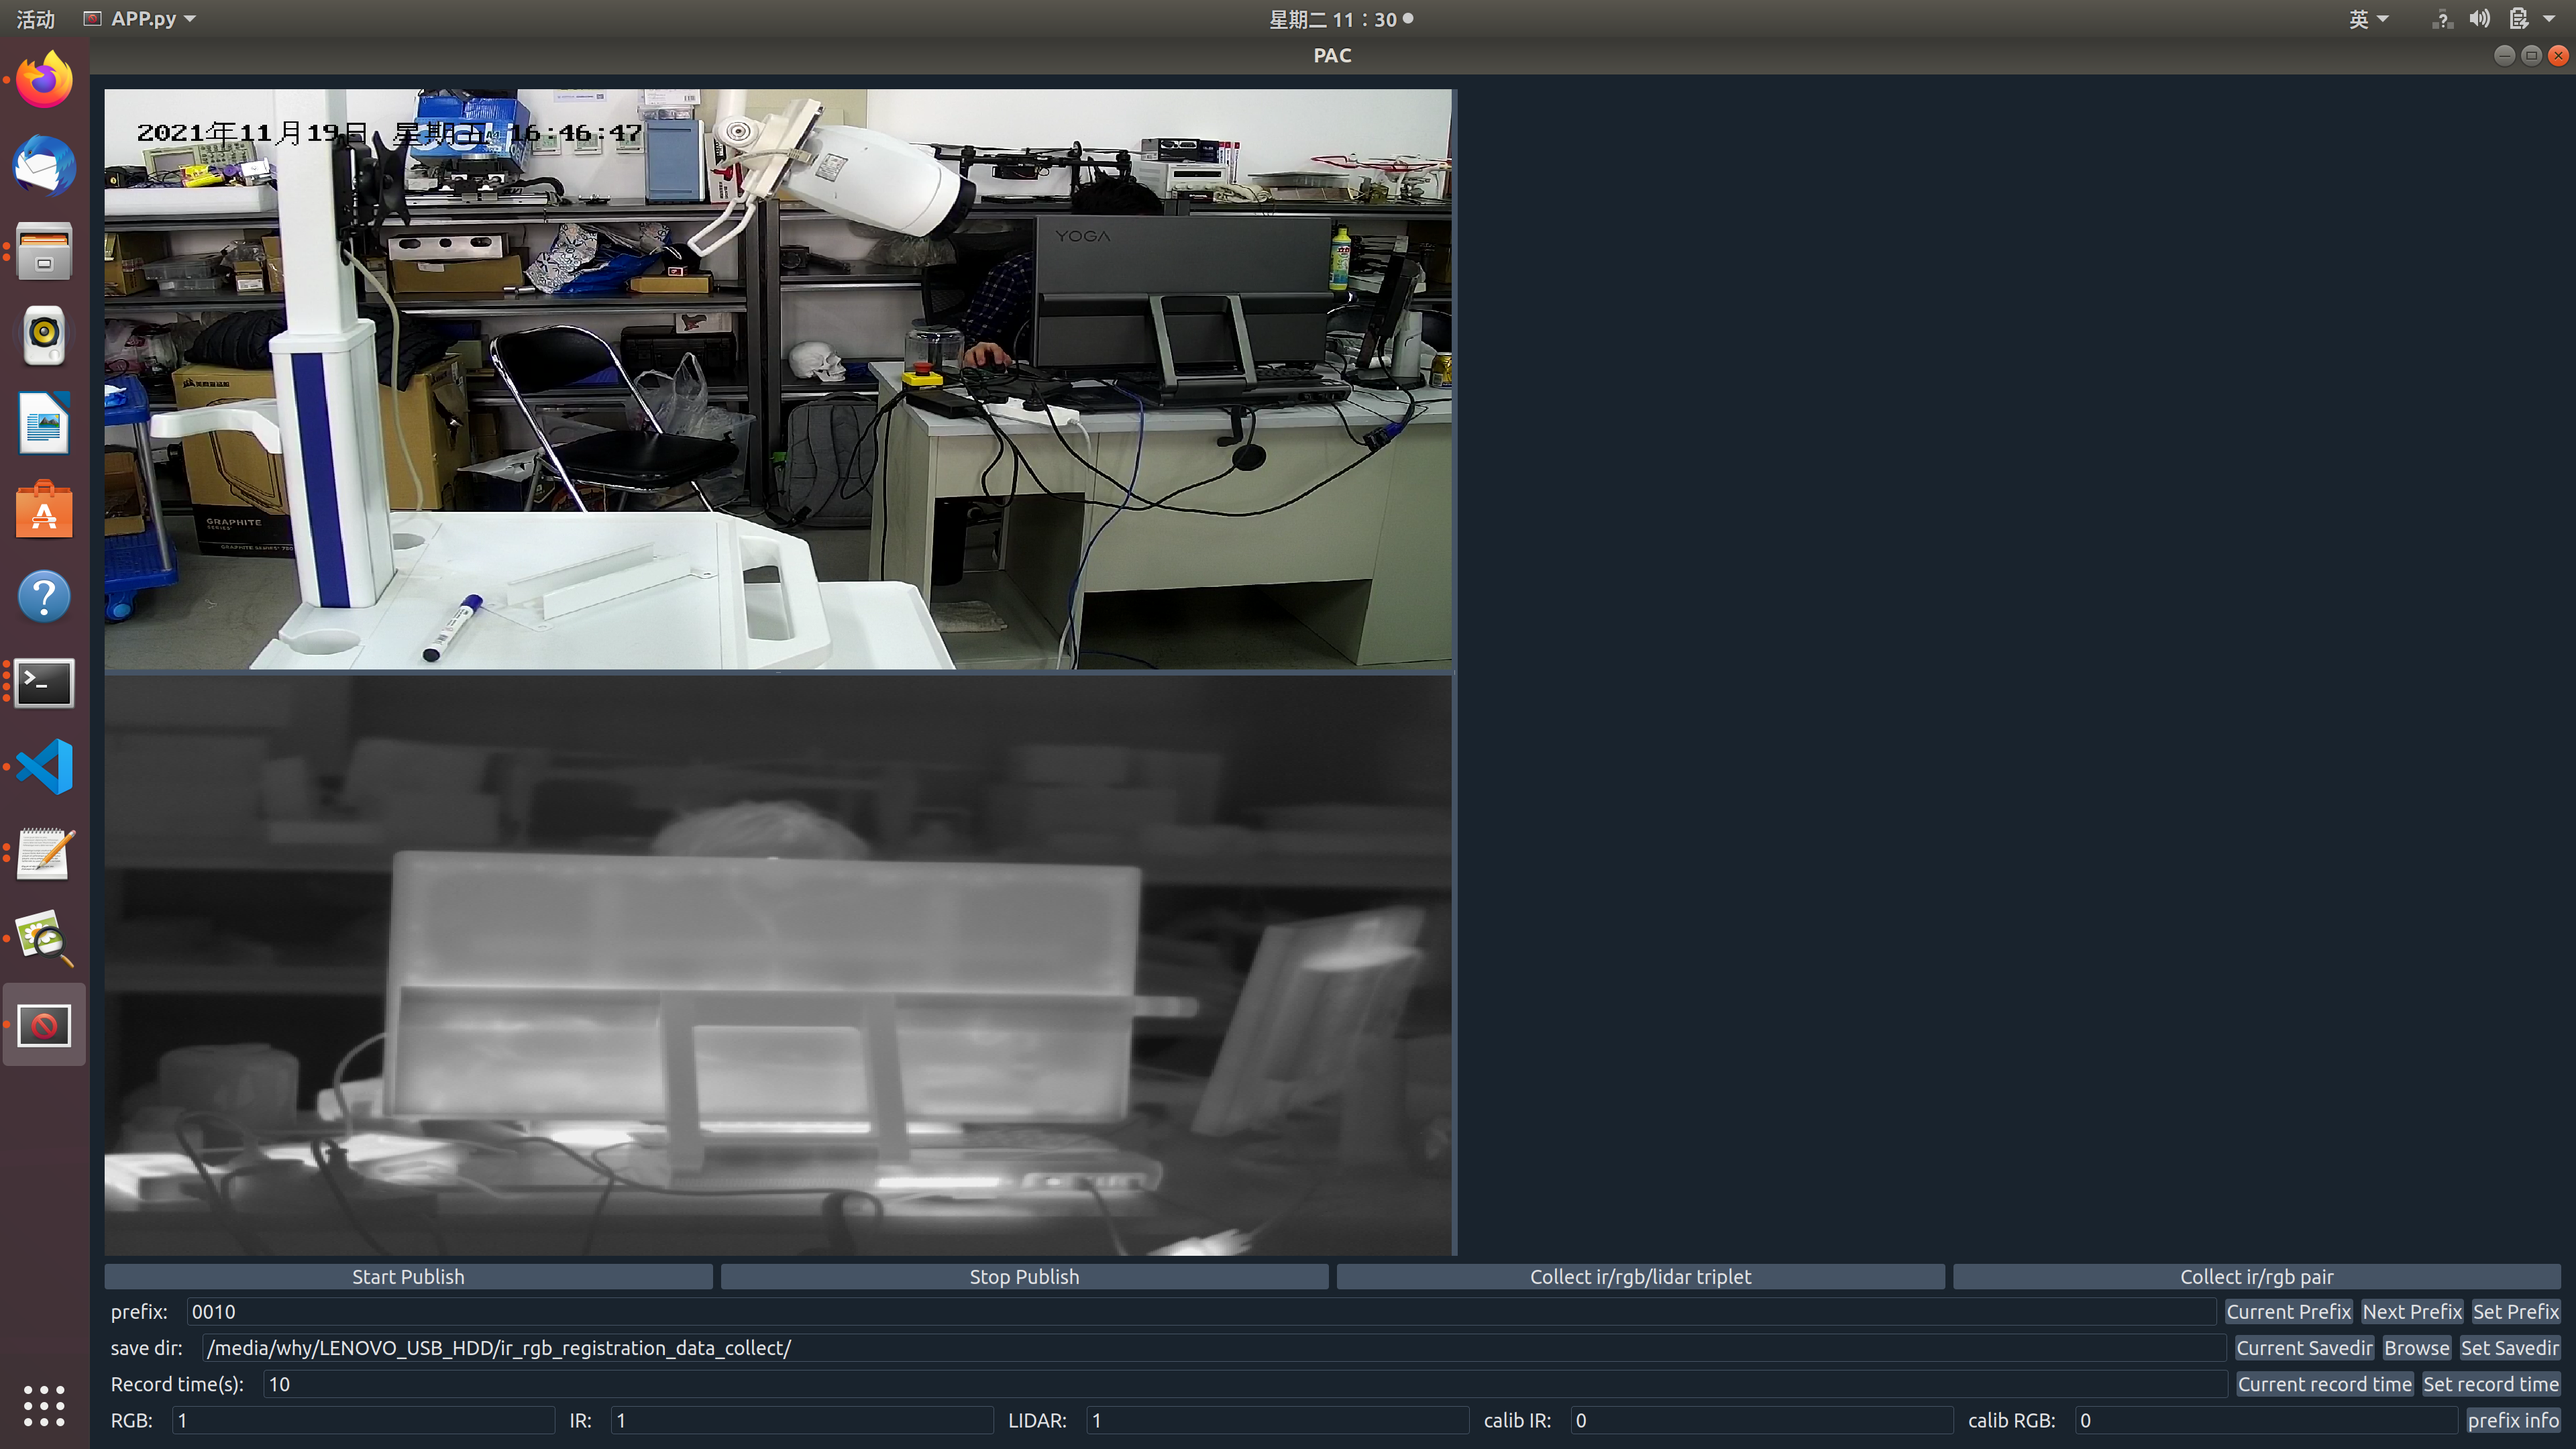
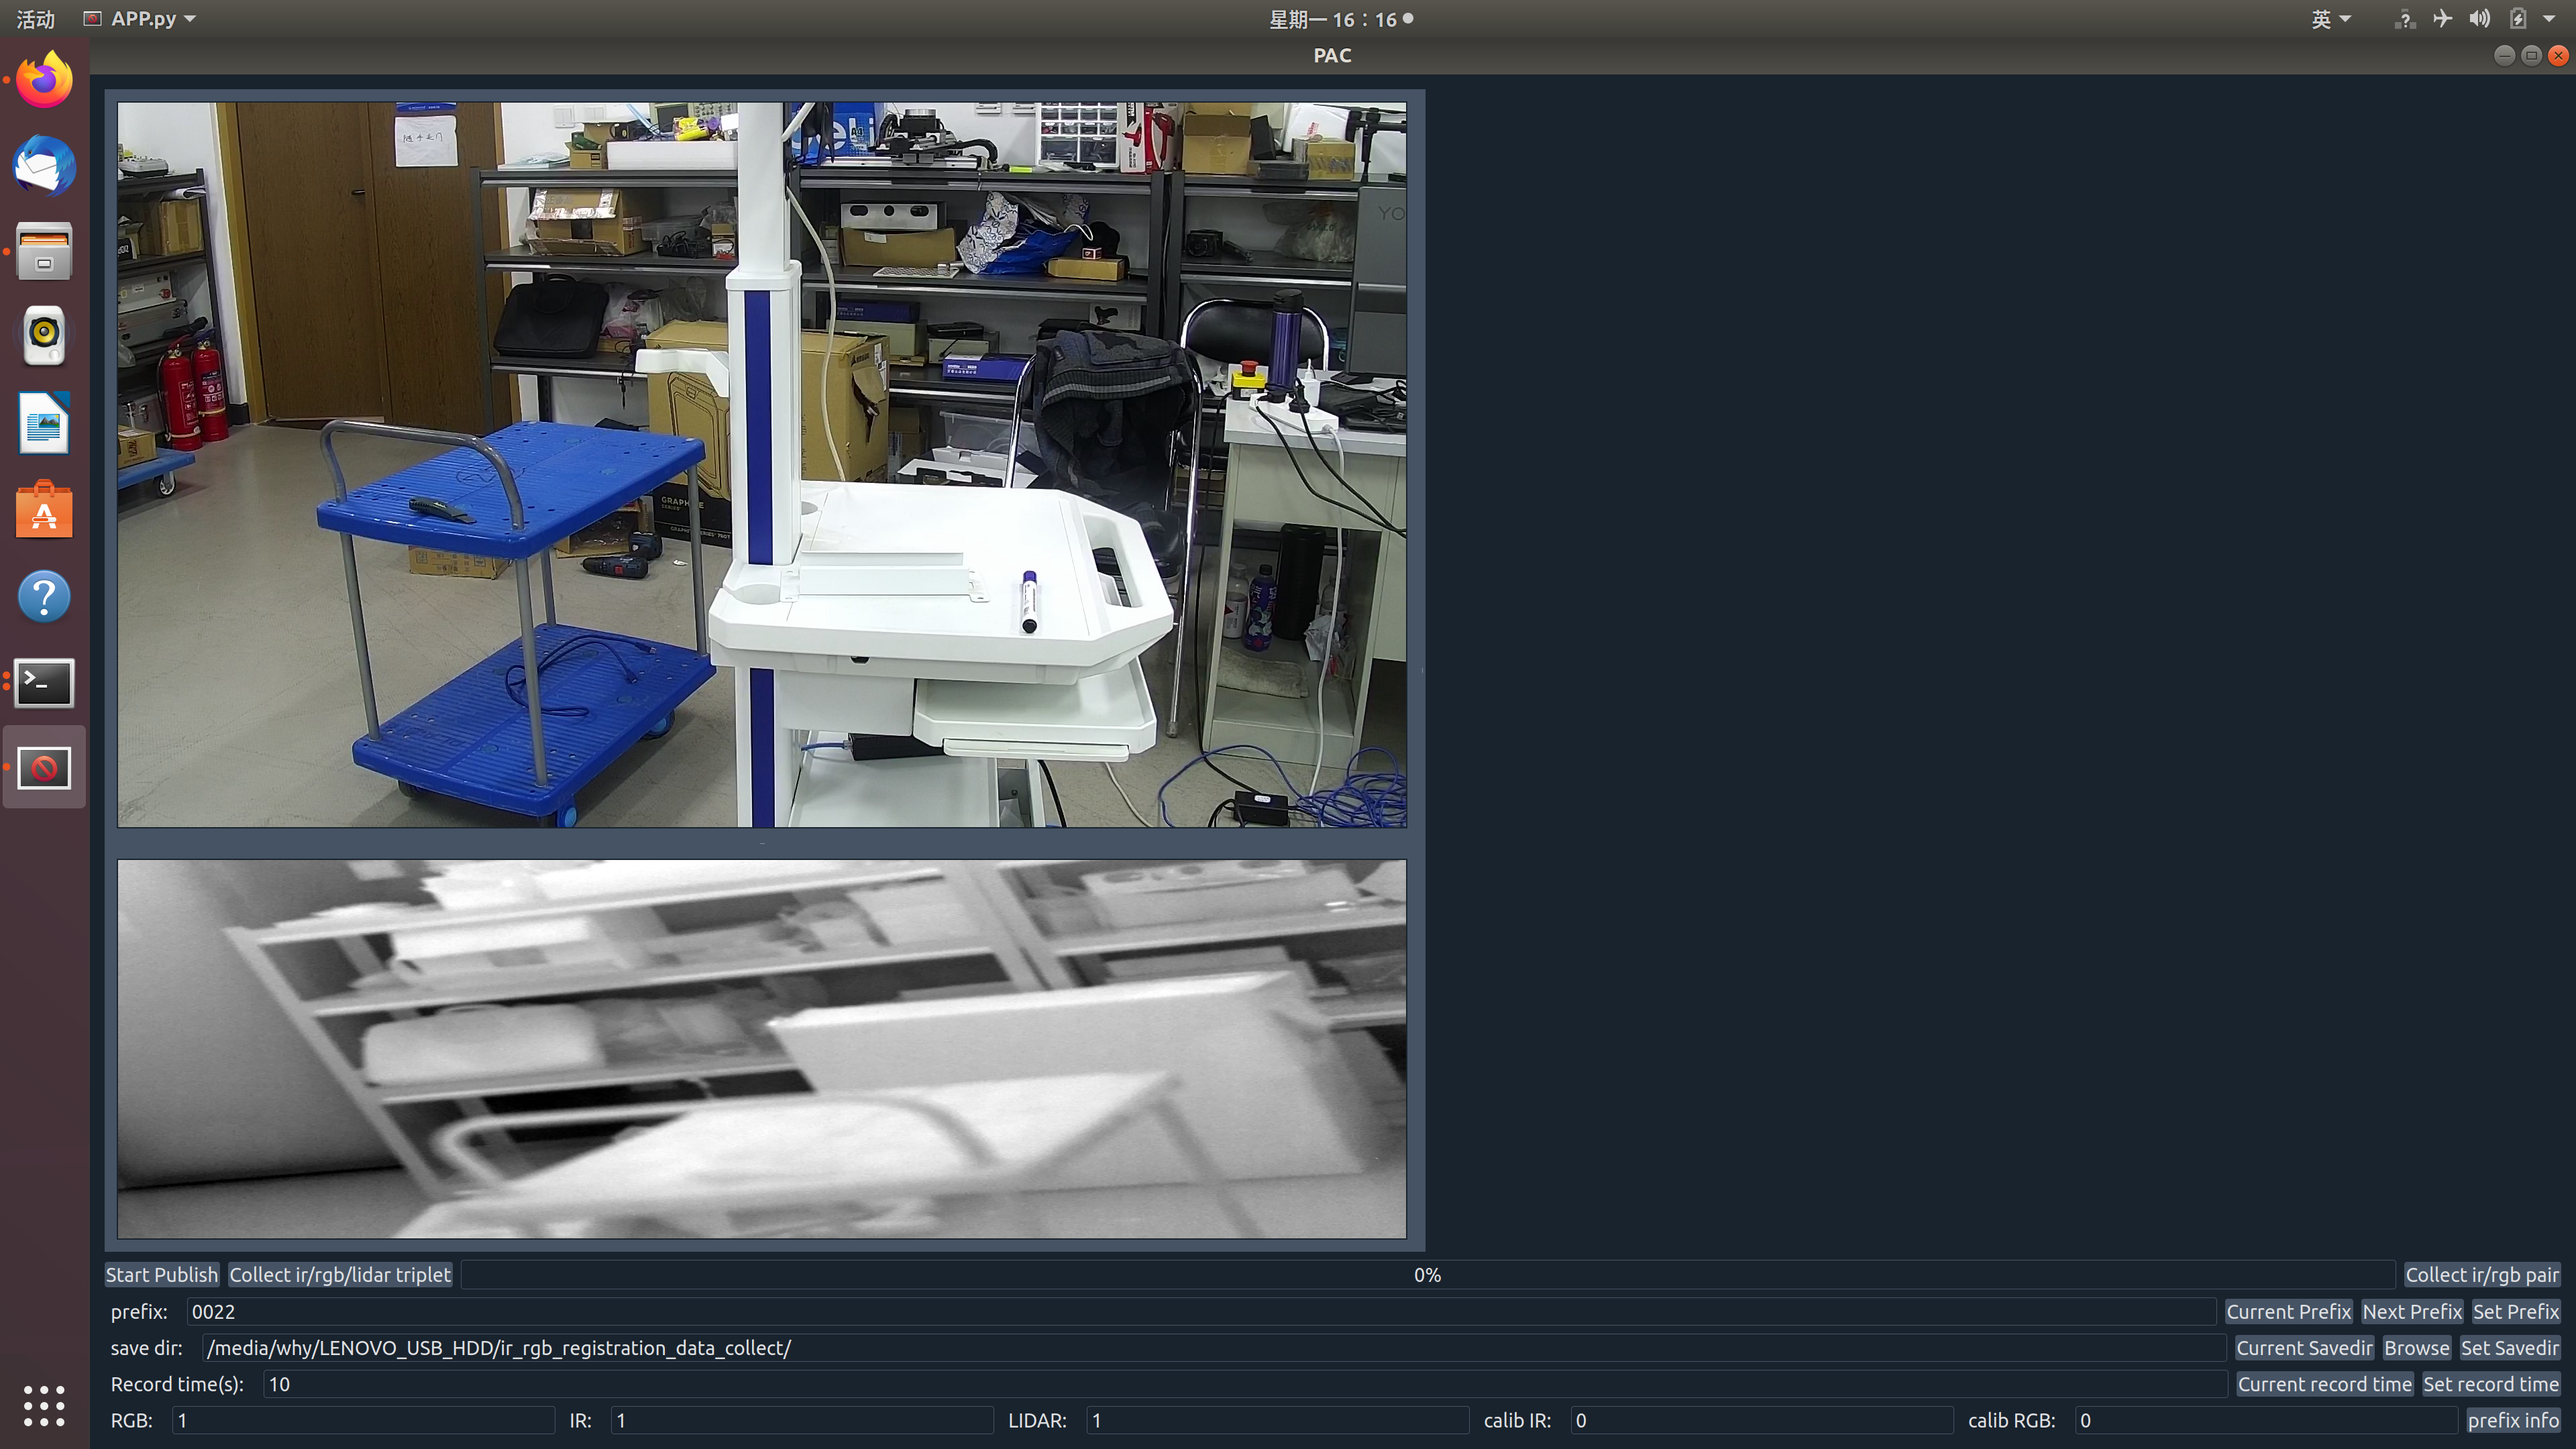
[Release] finish APP.py

diff --git a/APP.py b/APP.py
@@ -24,7 +24,8 @@ import time
 
 COLLECT_DATA_LAUNCH_ADDR = "/home/why/ROS_self/publish_collect_review_data/src/collect_data/launch/collect_data.launch"
 COLLECT_CALIB_LAUNCH_ADDR = "/home/why/ROS_self/publish_collect_review_data/src/collect_data/launch/collect_calib.launch"
-PUBLISH_LAUNCH_ADDR = "/home/why/ROS_self/publish_collect_review_data/src/collect_data/launch/publish_raw_data.launch"
+PUBLISH_LAUNCH_ADDR = "/home/why/ROS_self/publish_collect_review_data/src/collect_data/launch/publish_raw_data.launch"  # raw data/without visualize
+PUBLISH_LIDAR_ONLY_ADDR = "/home/why/driver/ws_livox/src/livox_ros_driver/launch/livox_lidar_msg.launch"
 START_PUBLISH_FLAG = 0
 
 IR_DEVICE = 4
@@ -33,6 +34,7 @@ RGB_DEVICE = 'rtsp://admin:a12345678@192.168.1.64/1'
            
 class ThreadStartRosbag(QtCore.QThread):
     signal_finished = pyqtSignal(int)
+    signal_started = pyqtSignal()
     def __init__(self):
         super(ThreadStartRosbag, self).__init__()
         self.record_time = None
@@ -40,6 +42,7 @@ class ThreadStartRosbag(QtCore.QThread):
 
     def run(self):
         if self.record_time and self.lidar_file_name:
+            self.signal_started.emit()
             os.system("rosbag record /livox/lidar/ --duration={} -O ".format(self.record_time) + self.lidar_file_name)
             self.signal_finished.emit(0)
         else:
@@ -95,20 +98,6 @@ class MultiThreadWinPicture(QtWidgets.QWidget):
         self.camera_label.setScaledContents(False)
         vlayout = QtWidgets.QVBoxLayout()
         vlayout.addWidget(self.camera_label)
-
-        # #########################################
-        # add button
-        # ########################################
-        # hlayout = QtWidgets.QHBoxLayout()
-        # self.start_button = QtWidgets.QPushButton("open")
-        # self.start_button.clicked.connect(self.open_camera)
-        # self.close_button = QtWidgets.QPushButton("close")
-        # self.close_button.clicked.connect(self.close_camera) # cannot stop thread
-        
-        # hlayout.addWidget(self.start_button)
-        # hlayout.addWidget(self.close_button)
-        # vlayout.addLayout(hlayout)
-        # # ####################################################
         self.setLayout(vlayout)
 
   
@@ -123,12 +112,6 @@ class MultiThreadWinPicture(QtWidgets.QWidget):
             [process.start() for process in self.processes]
 
 
-    # def close_camera(self):
-    #     ...
-    #     # [process.pause() for process in self.processes]
-        
-    #     # self.cap.release()
-    #     # self.camera_label.clear()
 
 
 class SingleThreadWinPicture(QtWidgets.QWidget):
@@ -156,10 +139,7 @@ class SingleThreadWinPicture(QtWidgets.QWidget):
     
     def show_camera(self):
         flag, self.image = self.cap.read()
-        # if self.image.shape[0] > 800:
-        #     show = cv2.resize(self.image,(480,320))
-        # else:
-        #     show = self.image
+        
         self.image = cv2.cvtColor(self.image, cv2.COLOR_BGR2RGB)
         if flag:
             show_image = QtGui.QImage(self.image.data, self.image.shape[1],self.image.shape[0], QtGui.QImage.Format_RGB888)
@@ -184,16 +164,15 @@ class SingleThreadWinPicture(QtWidgets.QWidget):
 class MainWindow(QtWidgets.QWidget):
     def __init__(self):
         super(MainWindow, self).__init__()
+        
+
         VSplitter = QtWidgets.QSplitter(QtCore.Qt.Vertical)
         HSplitter = QtWidgets.QSplitter(QtCore.Qt.Horizontal)
 
 
         self.setWindowTitle("PAC")   # publish and collect data
-        # self.rgb_widget = SingleThreadWinPicture(RGB_DEVICE)
         self.ir_widget = SingleThreadWinPicture(IR_DEVICE)
         self.rgb_widget = MultiThreadWinPicture(RGB_DEVICE)
-        # self.ir_widget = MultiThreadWinPicture(IR_DEVICE)
-
         VSplitter.addWidget(self.rgb_widget)
         VSplitter.addWidget(self.ir_widget)
         # ###############################################################3
@@ -201,11 +180,18 @@ class MainWindow(QtWidgets.QWidget):
         self.btn_start_publish = QtWidgets.QPushButton('Start Publish')
         # self.btn_stop_publish = QtWidgets.QPushButton('Stop Publish')
         self.btn_start_collect_triplet = QtWidgets.QPushButton('Collect ir/rgb/lidar triplet')
+        self.rosbag_record_progressbar = QtWidgets.QProgressBar()
+        self.rosbag_record_progressbar.setValue(0)
+        self.rosbag_timer = QtCore.QTimer() # timer to collect rosbag
+        self.rosbag_timer.timeout.connect(self.update_progressbar)
+        self.rosbag_recorded_time = 0
+
         self.btn_start_collect_pair = QtWidgets.QPushButton('Collect ir/rgb pair')
         Hlayout_1.addWidget(self.btn_start_publish)
         # Hlayout_1.addWidget(self.btn_stop_publish)
 
         Hlayout_1.addWidget(self.btn_start_collect_triplet)
+        Hlayout_1.addWidget(self.rosbag_record_progressbar)
         Hlayout_1.addWidget(self.btn_start_collect_pair)
         self.publish_launch = None
         self.btn_start_publish.clicked.connect(self.start_publish)
@@ -306,24 +292,10 @@ class MainWindow(QtWidgets.QWidget):
         # ##############################################################
         # ros node subscribe
         # ##############################################################
-        # self.subscribe_rgb_thread = cameraCaptureThread(RGB_DEVICE)
-        # self.subscribe_ir_thread = cameraCaptureThread(IR_DEVICE)
-        # self.camera_capture_controller = cameraCaptureController()
-        # self.stop_event = threading.Event()
-        # self.stop_event.clear()
-        # self.update_ir_thread = threading.Thread(target=self.update_ir_img)
-        # self.update_ir_thread.start()
-        # self.update_rgb_thread = threading.Thread(target=self.update_rgb_img)
-        # self.update_rgb_thread.start()
-        
-        # self.subscribe_thread = CameraRosNode()
        
-        
-
-        # self.subscribe_rgb_thread.rgb_image_signal.connect(self.update_rgb_img)
-        # self.subscribe_ir_thread.ir_image_signal.connect(self.update_ir_img)
         self.thread_start_rosbag = ThreadStartRosbag()
         self.thread_start_rosbag.signal_finished.connect(self.finished_rosbag_record)
+        self.thread_start_rosbag.signal_started.connect(self.started_rosbag_record)
 
 
         # #############################################################
@@ -339,16 +311,14 @@ class MainWindow(QtWidgets.QWidget):
     def start_publish(self):
         global START_PUBLISH_FLAG
         START_PUBLISH_FLAG = 1
-        # uuid = roslaunch.rlutil.get_or_generate_uuid(None, False)
-        # roslaunch.configure_logging(uuid)
-        # self.publish_launch = roslaunch.parent.ROSLaunchParent(
-        #     uuid, [PUBLISH_LAUNCH_ADDR])
-        # self.publish_launch.start()
-        # self.subscribe_rgb_thread.start()
-        # self.subscribe_ir_thread.start()
+        uuid = roslaunch.rlutil.get_or_generate_uuid(None, False)
+        roslaunch.configure_logging(uuid)
+        self.publish_launch = roslaunch.parent.ROSLaunchParent(
+            uuid, [PUBLISH_LIDAR_ONLY_ADDR])
+        self.publish_launch.start()
         self.ir_widget.open_camera()
         self.rgb_widget.open_camera()
-        # QtWidgets.QMessageBox.information(self, "[INFO]", "finish start publishing", QtWidgets.QMessageBox.Ok)
+        QtWidgets.QMessageBox.information(self, "[INFO]", "finish start publishing", QtWidgets.QMessageBox.Ok)
 
     # def stop_publish(self):
     #     global START_PUBLISH_FLAG
@@ -383,7 +353,6 @@ class MainWindow(QtWidgets.QWidget):
 
             self.thread_start_rosbag.start()
             QtWidgets.QMessageBox.information(self, "INFO", "rosbag record {} seconds".format(record_time), QtWidgets.QMessageBox.Ok)
-                
             # uuid = roslaunch.rlutil.get_or_generate_uuid(None, False)
             # roslaunch.configure_logging(uuid)
             # self.collect_data_launch = roslaunch.parent.ROSLaunchParent(
@@ -391,9 +360,16 @@ class MainWindow(QtWidgets.QWidget):
             # self.collect_data_launch.start()
             # QtWidgets.QMessageBox.information(self, "INFO", "finish collecting ir/rgb/lidar frame", QtWidgets.QMessageBox.Ok)
             # self.collect_data_launch.shutdown()
-
         else:
             QtWidgets.QMessageBox.information(self, "ERROR", "Please start publishing first!", QtWidgets.QMessageBox.Ok)
+
+    def started_rosbag_record(self):
+        self.rosbag_timer.start(1000)
+
+    def update_progressbar(self):
+        self.rosbag_recorded_time += 1 
+        self.rosbag_record_progressbar.setValue(self.rosbag_recorded_time / self.thread_start_rosbag.record_time * 100)
+        
 
     def finished_rosbag_record(self, success):
         if(success == 0):
@@ -401,6 +377,9 @@ class MainWindow(QtWidgets.QWidget):
                 QtWidgets.QMessageBox.Ok)
         elif(success == 1):
             QtWidgets.QMessageBox.information(self, "[ERROR]", "record time or save dir undefined", QtWidgets.QMessageBox.Ok)
+        self.rosbag_timer.stop()
+        self.rosbag_recorded_time = 0
+        self.rosbag_record_progressbar.setValue(0)
         print("thread_start_rosbag status = ", str(self.thread_start_rosbag.isFinished()))
         # self.thread_start_rosbag.stop()
 

diff --git a/README.md b/README.md
@@ -104,7 +104,9 @@ pip install rospkg defusedxml
 
 
 
-<p align="center"><img src="./resources/app.png" width=50%></p>
+<p align="center"><img src="./resources/app.png" width=80%></p>
+
+
 
 <h6 align="center">app界面</h6>
 
